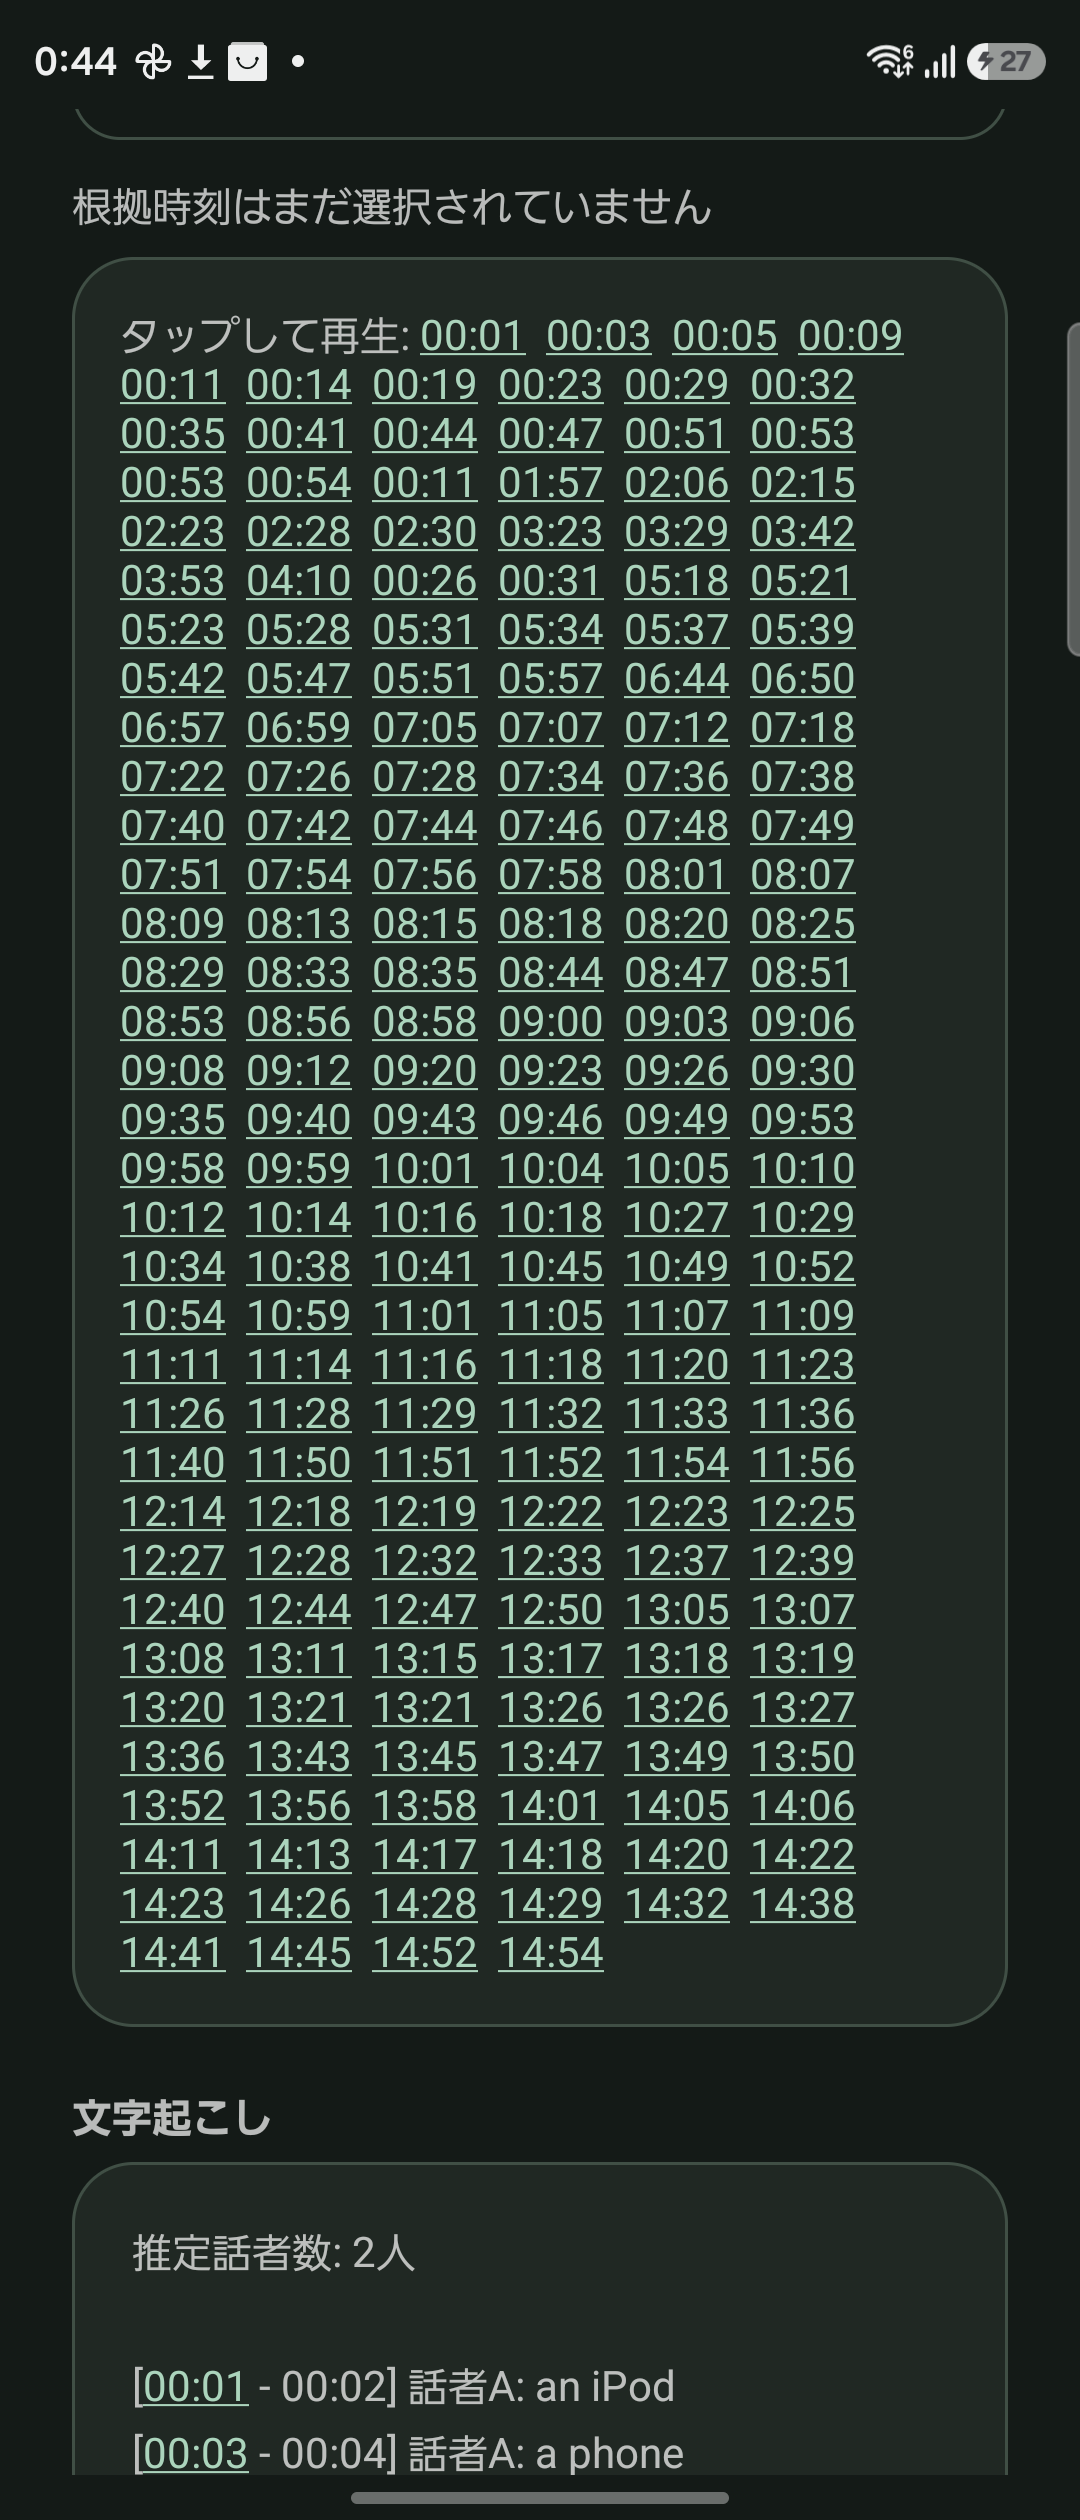
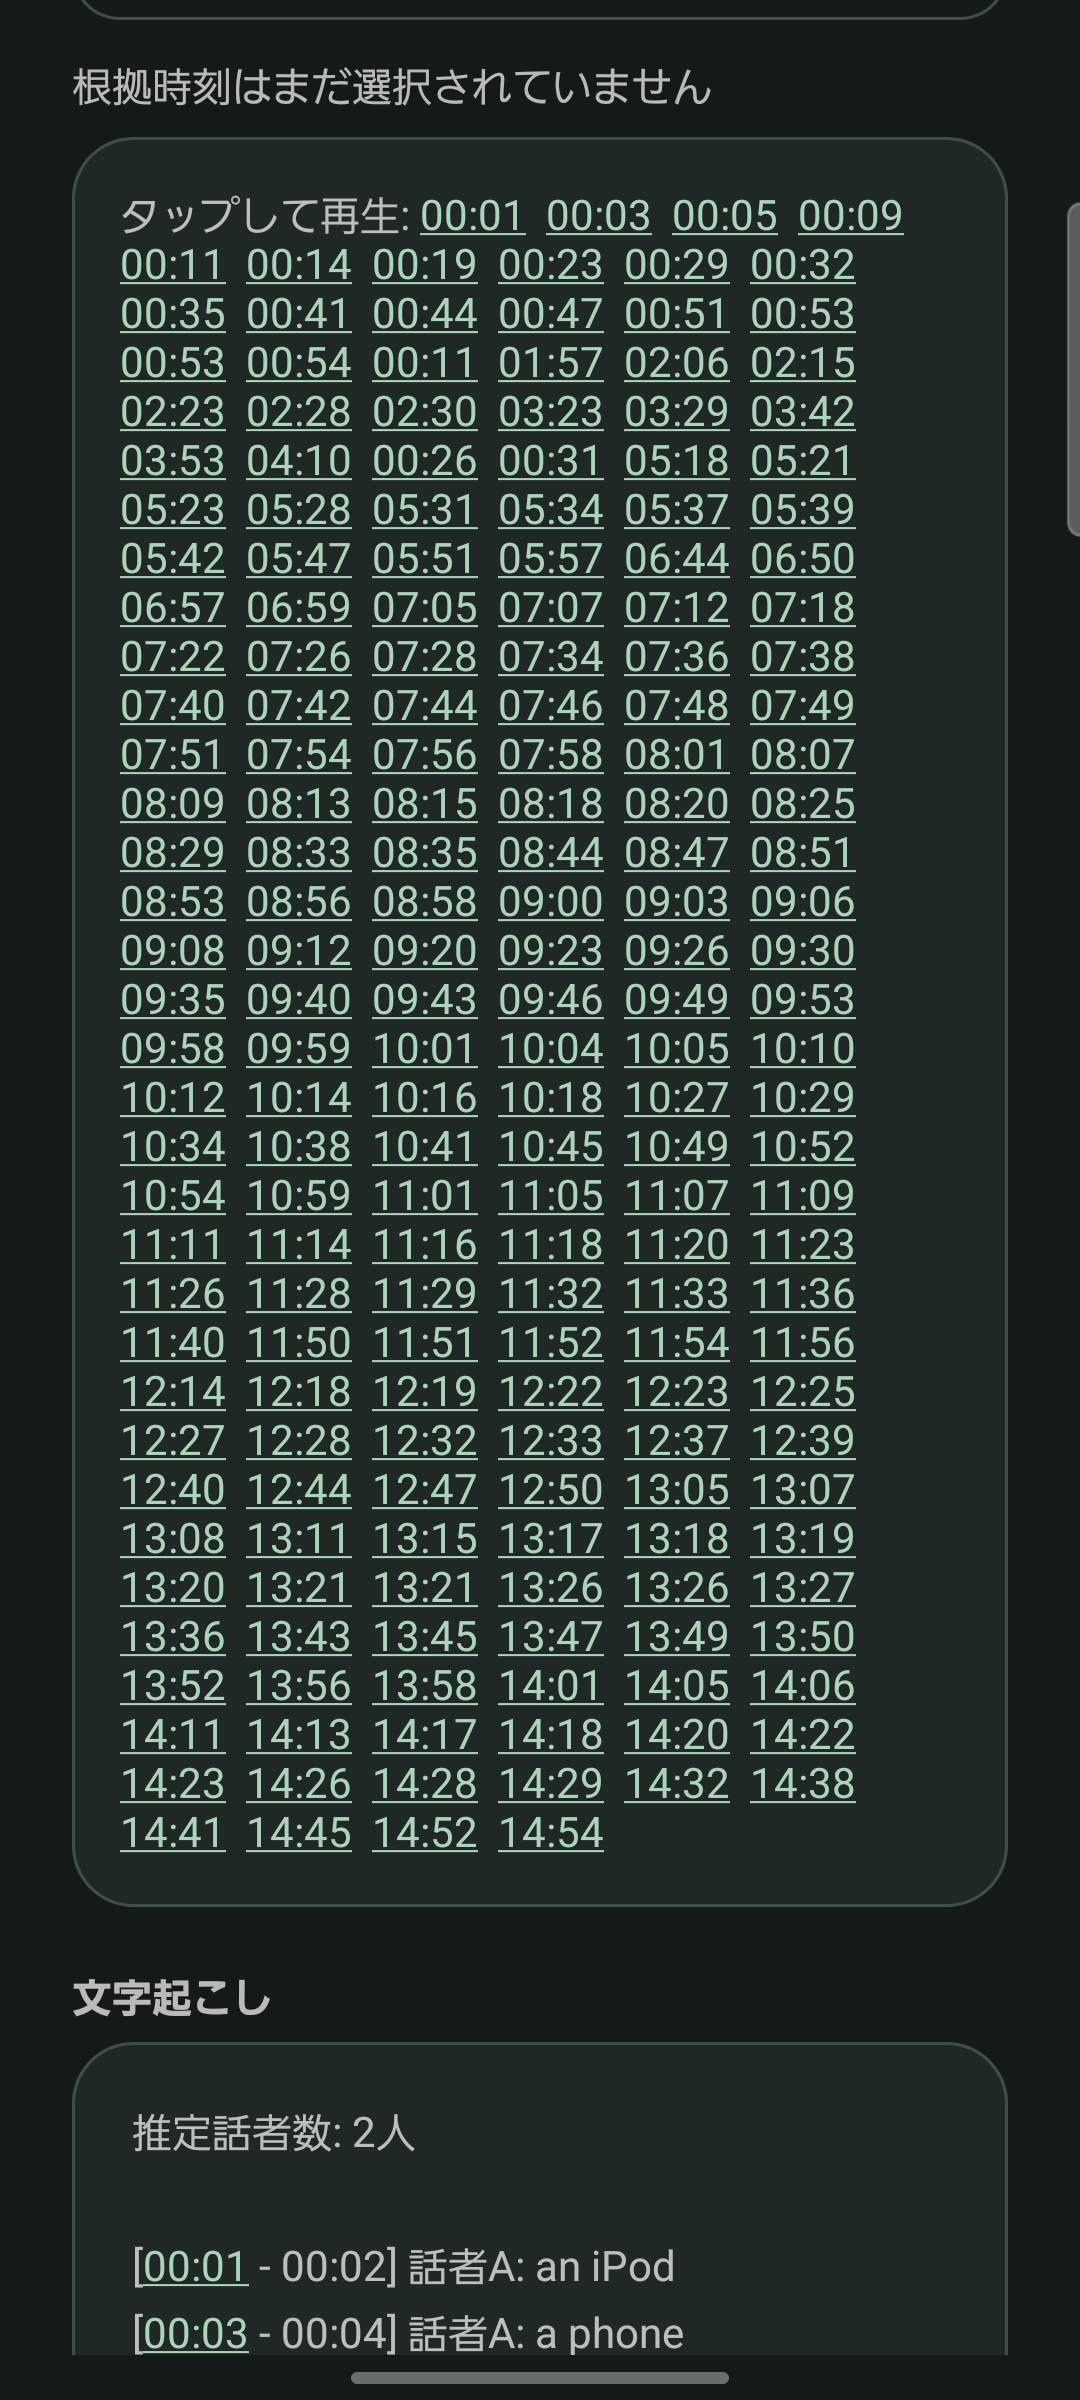
Remove status bars from documentation images

diff --git a/tools/generate_user_manual_pdf.py b/tools/generate_user_manual_pdf.py
@@ -23,14 +23,14 @@ from reportlab.lib.utils import ImageReader
 
 ROOT = Path(__file__).resolve().parents[1]
 OUT = ROOT / "output" / "pdf" / "mint-ai-recorder-user-manual.pdf"
-ICON = ROOT / "docs" / "manual" / "assets" / "app-icon.png"
-SCREEN_CURRENT = ROOT / "docs" / "manual" / "assets" / "meeting-detail-device.jpg"
+ICON = ROOT / "screenshots" / "app-icon.png"
+SCREEN_CURRENT = ROOT / "screenshots" / "meeting-detail-device.jpg"
 SCREEN_OLD = ROOT / ".codex-remote-attachments" / "01a09a75-efe1-7121-94c9-f54f7fc078ba" / "f39d3030-c370-4e7c-b33c-11ddd8efae0e" / "1-Photo-1.jpg"
-SCREEN_MEETING_LIST = ROOT / "docs" / "manual" / "assets" / "meeting-library-live.png"
-SCREEN_RECORD = ROOT / "docs" / "manual" / "assets" / "record-screen-live.png"
-SCREEN_SETTINGS = ROOT / "docs" / "manual" / "assets" / "settings-screen-live.png"
-SCREEN_DETAIL = ROOT / "docs" / "manual" / "assets" / "meeting-detail-live.png"
-SCREEN_DETAIL_TIMESTAMPS = ROOT / "docs" / "manual" / "assets" / "meeting-detail-timestamps-live.png"
+SCREEN_MEETING_LIST = ROOT / "screenshots" / "meeting-library-live.png"
+SCREEN_RECORD = ROOT / "screenshots" / "record-screen-live.png"
+SCREEN_SETTINGS = ROOT / "screenshots" / "settings-screen-live.png"
+SCREEN_DETAIL = ROOT / "screenshots" / "meeting-detail-live.png"
+SCREEN_DETAIL_TIMESTAMPS = ROOT / "screenshots" / "meeting-detail-timestamps-live.png"
 
 GREEN = colors.HexColor("#0C7A58")
 GREEN_DARK = colors.HexColor("#07523D")
@@ -230,7 +230,7 @@ def make_pdf():
         leftMargin=18 * mm, rightMargin=18 * mm,
         topMargin=20 * mm, bottomMargin=17 * mm,
         title="mint AI レコーダー 操作説明書",
-        author="mint AI レコーダー",
+        author="DAZAI-T",
         subject="録音・文字起こし・議事録作成アプリの操作説明書",
     )
     story = []
@@ -252,6 +252,7 @@ def make_pdf():
     cover_table = Table([
         ["対象", "Android 8.0以上 / 64-bit ARM"],
         ["説明書版", "2026-09-19"],
+        ["作成者", "DAZAI-T"],
         ["基本方針", "録音は暗号化保存。AI処理は必要な場合だけ実行"],
     ], colWidths=[30 * mm, 110 * mm])
     cover_table.setStyle(TableStyle([
@@ -302,7 +303,7 @@ def make_pdf():
     # Meeting list
     story += [h1("2　会議一覧", styles)]
     meeting_list_screen = ScreenshotCrop(
-        SCREEN_MEETING_LIST, crop_top=120, crop_bottom=1880, width=76 * mm
+        SCREEN_MEETING_LIST, crop_top=0, crop_bottom=1760, width=76 * mm
     )
     left = [h2("画面でできること", styles),
             bullet("新しい録音を開始する", styles),
@@ -324,7 +325,7 @@ def make_pdf():
     # Recording
     story += [h1("3　録音する", styles)]
     record_screen = ScreenshotCrop(
-        SCREEN_RECORD, crop_top=120, crop_bottom=1660, width=80 * mm
+        SCREEN_RECORD, crop_top=0, crop_bottom=1540, width=80 * mm
     )
     instructions = [
         h2("録音の手順", styles),
@@ -371,7 +372,7 @@ def make_pdf():
 
     # Detail + screenshot
     story += [h1("5　議事録と文字起こしを見る", styles)]
-    top_crop = ScreenshotCrop(SCREEN_DETAIL_TIMESTAMPS, crop_top=0, crop_bottom=1500, width=77 * mm)
+    top_crop = ScreenshotCrop(SCREEN_DETAIL_TIMESTAMPS, crop_top=0, crop_bottom=1380, width=77 * mm)
     detail_text = [
         h2("折りたたみ表示", styles),
         bullet("議事録の要約：最初の6行", styles),
@@ -421,7 +422,7 @@ def make_pdf():
     # Settings
     story += [h1("7　設定", styles)]
     settings_screen = ScreenshotCrop(
-        SCREEN_SETTINGS, crop_top=120, crop_bottom=1710, width=78 * mm
+        SCREEN_SETTINGS, crop_top=0, crop_bottom=1590, width=78 * mm
     )
     settings_text = [
         h2("言語", styles), p("日本語と英語を切り替えます。英語表示ではAIへの指示も英語になります。", styles),
@@ -480,7 +481,7 @@ def make_pdf():
 
     # Troubleshooting with legacy screenshot
     story += [h1("10　困ったとき", styles)]
-    lower_crop = ScreenshotCrop(SCREEN_CURRENT, crop_top=360, crop_bottom=1040, width=67 * mm)
+    lower_crop = ScreenshotCrop(SCREEN_CURRENT, crop_top=240, crop_bottom=920, width=67 * mm)
     trouble = [
         h2("タイムスタンプから再生できない", styles),
         bullet("会議詳細を閉じて開き直す", styles),
@@ -535,7 +536,7 @@ def make_pdf():
         ("TOPPADDING",(0,0),(-1,-1),6), ("BOTTOMPADDING",(0,0),(-1,-1),6),
     ]))
     story += [term_table, Spacer(1, 9 * mm)]
-    story += [callout("より詳しい文章版は、同梱の「mint-ai-recorder-user-manual.md」を参照してください。", styles)]
+    story += [callout("より詳しい文章版は、GitHubリポジトリのREADMEを参照してください。", styles)]
 
     doc.build(story, onFirstPage=on_page, onLaterPages=on_page)
     print(OUT)
